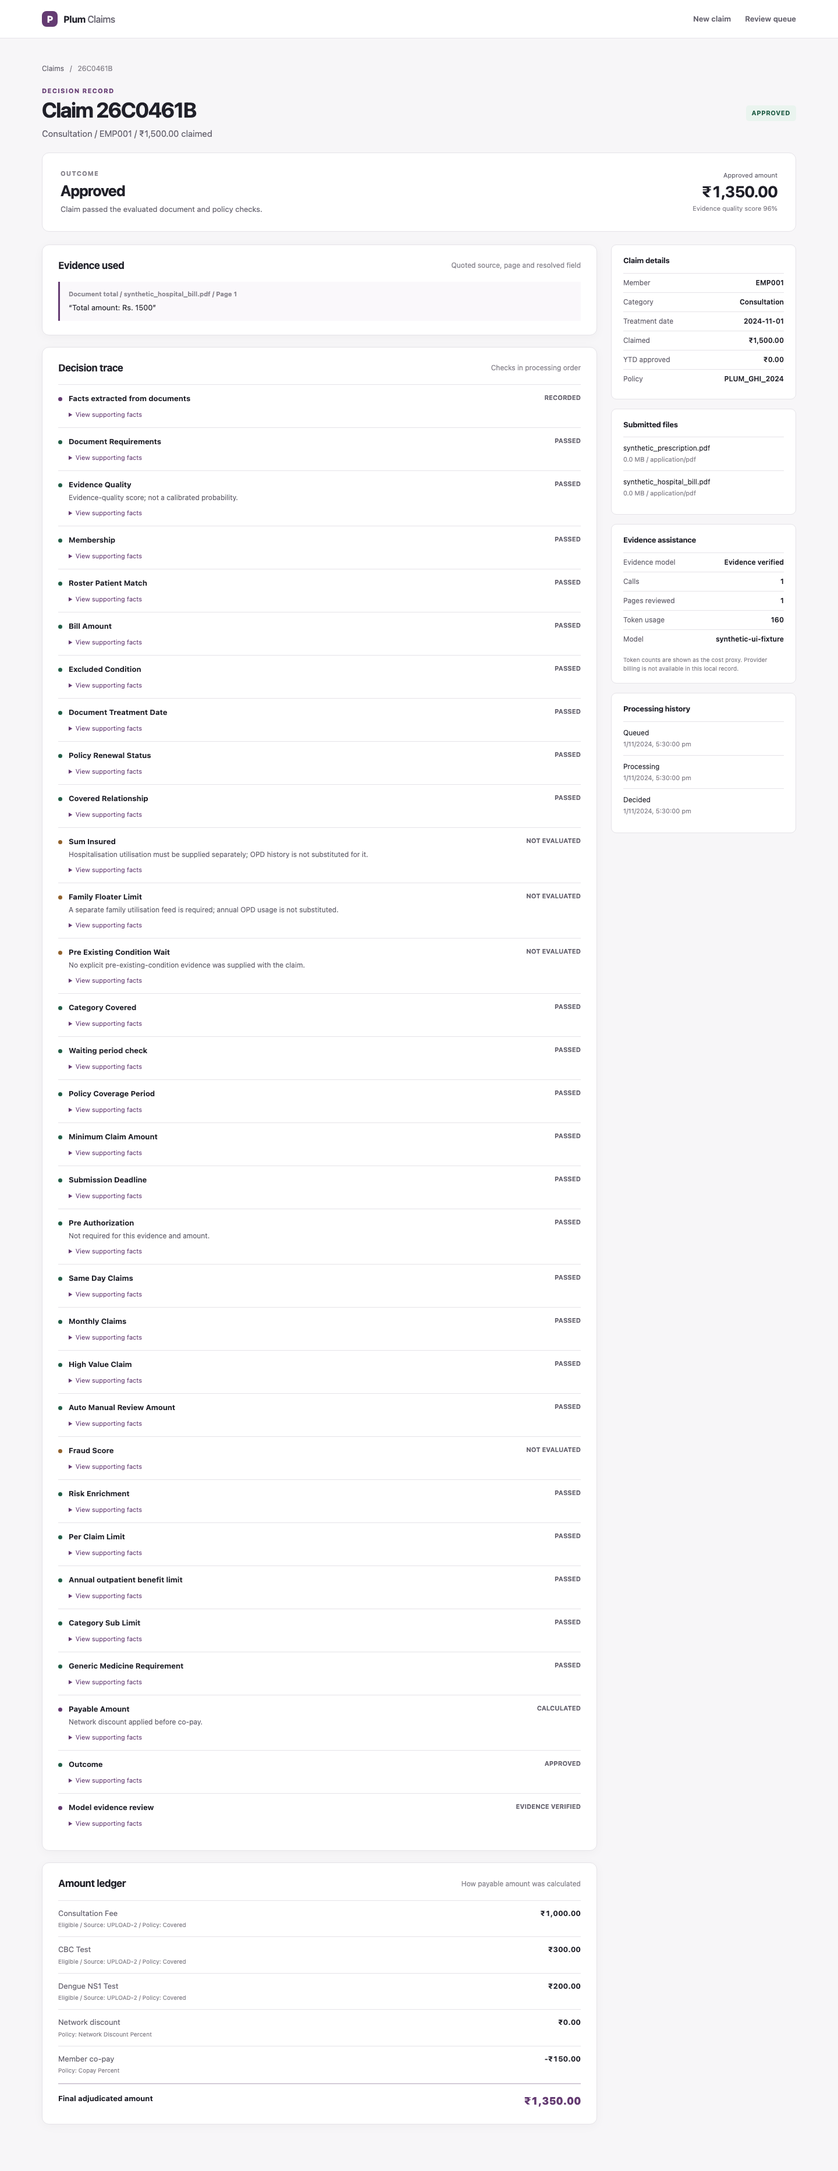
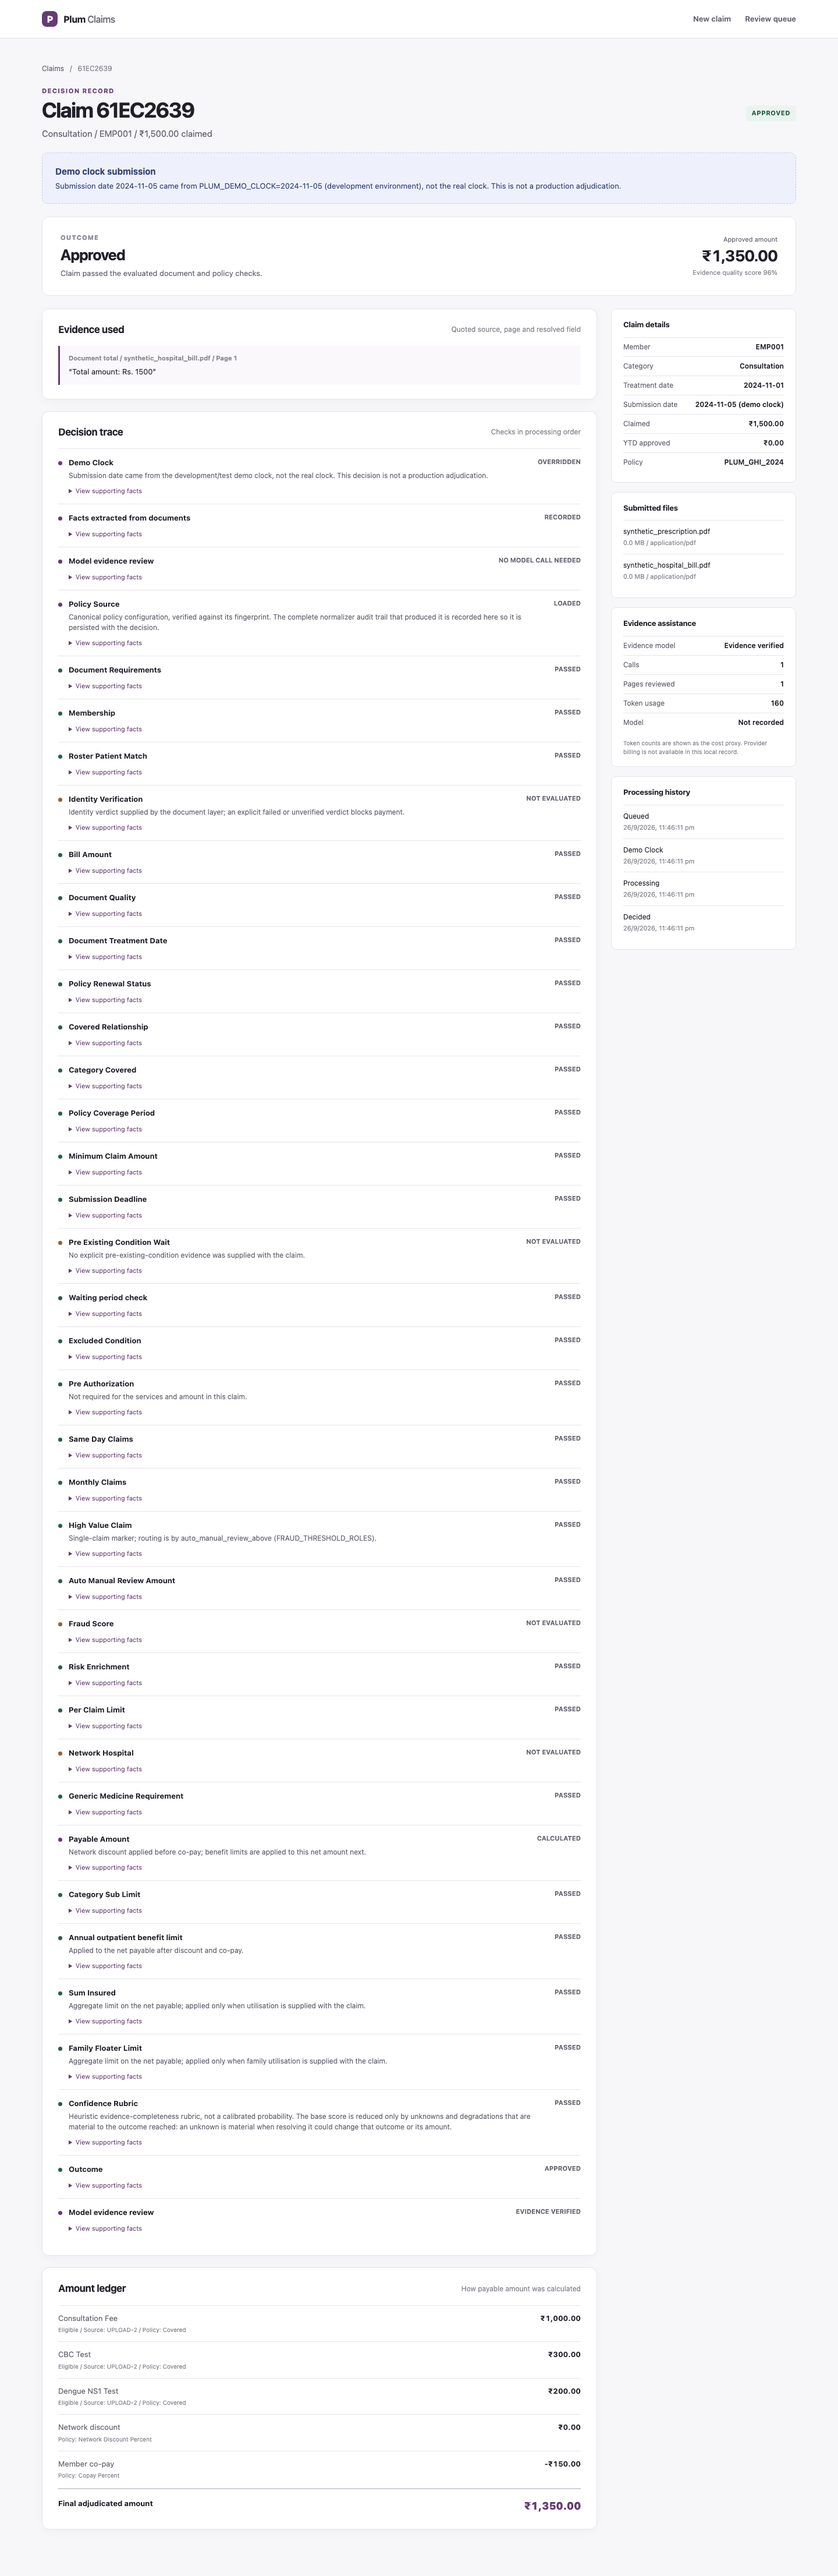
fix(verification): isolate browser QA data

diff --git a/scripts/browser_check.py b/scripts/browser_check.py
@@ -6,6 +6,14 @@ the explicit development clock before running this check:
     PLUM_ENV=development PLUM_DEMO_CLOCK=2024-11-05 .venv/bin/python -m uvicorn claims.web:app
 
 The check asserts that the demo clock is visible in the UI and decision trace.
+Start the server with a new ``PLUM_DATA_DIR`` for this deterministic scenario:
+
+    PLUM_DATA_DIR="$(mktemp -d)" PLUM_ENV=development PLUM_DEMO_CLOCK=2024-11-05 \
+      .venv/bin/python -m uvicorn claims.web:app
+
+The workflow deliberately creates repeat submissions to exercise duplicate and
+review handling, so an existing demo database can make the first approval
+scenario fail the same-day-claims fraud threshold.
 """
 
 from __future__ import annotations

diff --git a/docs/reports/evaluation.md b/docs/reports/evaluation.md
@@ -508,12 +508,8 @@ Explicit behavior checks: **Passed**.
           "Rajesh Kumar",
           "Rajesh Kumar"
         ],
-        "allowed_names": [
-          "arjun kumar",
-          "rajesh kumar",
-          "sunita kumar"
-        ],
-        "unresolved_roster_dependents": []
+        "benefit_member_id": "EMP001",
+        "benefit_member_name": "Rajesh Kumar"
       }
     },
     {
@@ -1061,10 +1057,8 @@ Explicit behavior checks: **Passed**.
           "Vikram Joshi",
           "Vikram Joshi"
         ],
-        "allowed_names": [
-          "vikram joshi"
-        ],
-        "unresolved_roster_dependents": []
+        "benefit_member_id": "EMP005",
+        "benefit_member_name": "Vikram Joshi"
       }
     },
     {
@@ -1600,10 +1594,8 @@ Explicit behavior checks: **Passed**.
         "document_names": [
           "Priya Singh"
         ],
-        "allowed_names": [
-          "priya singh"
-        ],
-        "unresolved_roster_dependents": []
+        "benefit_member_id": "EMP002",
+        "benefit_member_name": "Priya Singh"
       }
     },
     {
@@ -2191,13 +2183,8 @@ Explicit behavior checks: **Passed**.
       "policy_ref": "members",
       "evidence": {
         "document_names": [],
-        "allowed_names": [
-          "suresh patil"
-        ],
-        "unresolved_roster_dependents": [
-          "DEP004",
-          "DEP005"
-        ]
+        "benefit_member_id": "EMP007",
+        "benefit_member_name": "Suresh Patil"
       }
     },
     {
@@ -2507,7 +2494,7 @@ Explicit behavior checks: **Passed**.
     {
       "stage": "policy",
       "rule_id": "category_sub_limit",
-      "status": "DEFERRED_TO_PRE_AUTH",
+      "status": "LIMITED",
       "policy_ref": "opd_categories.diagnostic.sub_limit",
       "evidence": {
         "sub_limit": 10000,
@@ -2517,11 +2504,12 @@ Explicit behavior checks: **Passed**.
         "usage_basis": null,
         "used": null,
         "remaining_before_claim": 10000,
-        "service_net_payable": null,
-        "counted_against_sub_limit_paise": null,
-        "net_payable_after": 15000,
+        "service_net_payable": 15000,
+        "counted_against_sub_limit_paise": 1000000,
+        "net_payable_after": 10000,
         "interpretation": "CATEGORY_SUB_LIMIT_RULE"
-      }
+      },
+      "details": "Prior category usage not supplied; this claim was checked against the full sub_limit on its own."
     },
     {
       "stage": "policy",
@@ -2533,7 +2521,7 @@ Explicit behavior checks: **Passed**.
         "ytd_claims_amount": null,
         "ytd_source": null,
         "remaining": null,
-        "net_payable_before_limit": 15000
+        "net_payable_before_limit": 10000
       },
       "details": "Year-to-date OPD usage was not supplied; the annual limit is applied at settlement against the utilisation ledger."
     },
@@ -2546,7 +2534,7 @@ Explicit behavior checks: **Passed**.
         "sum_insured_paise": 50000000,
         "used_paise": null,
         "remaining_paise": null,
-        "net_payable_before_limit_paise": 1500000
+        "net_payable_before_limit_paise": 1000000
       },
       "details": "Aggregate limit on the net payable; applied only when utilisation is supplied with the claim."
     },
@@ -2560,7 +2548,7 @@ Explicit behavior checks: **Passed**.
         "combined_limit_paise": 15000000,
         "used_paise": null,
         "remaining_paise": null,
-        "net_payable_before_limit_paise": 1500000
+        "net_payable_before_limit_paise": 1000000
       },
       "details": "Aggregate limit on the net payable; applied only when family utilisation is supplied with the claim."
     },
@@ -2591,6 +2579,14 @@ Explicit behavior checks: **Passed**.
             "applies_to": [
               "payable",
               "date_dependent_rejection"
+            ],
+            "applied": false
+          },
+          {
+            "reason": "category_usage_not_evaluated",
+            "points": 0.03,
+            "applies_to": [
+              "payable"
             ],
             "applied": false
           },
@@ -2654,6 +2650,14 @@ Explicit behavior checks: **Passed**.
       "policy_ref": "opd_categories.diagnostic.copay_percent",
       "basis_paise": 1500000,
       "percent": 0
+    },
+    {
+      "kind": "adjustment",
+      "description": "Diagnostic sub-limit",
+      "amount_paise": -500000,
+      "amount": -5000,
+      "policy_ref": "opd_categories.diagnostic.sub_limit",
+      "rule_id": "category_sub_limit"
     }
   ]
 }
@@ -2753,12 +2757,8 @@ Explicit behavior checks: **Passed**.
       "policy_ref": "members",
       "evidence": {
         "document_names": [],
-        "allowed_names": [
-          "amit verma"
-        ],
-        "unresolved_roster_dependents": [
-          "DEP003"
-        ]
+        "benefit_member_id": "EMP003",
+        "benefit_member_name": "Amit Verma"
       }
     },
     {
@@ -3303,10 +3303,8 @@ Explicit behavior checks: **Passed**.
       "policy_ref": "members",
       "evidence": {
         "document_names": [],
-        "allowed_names": [
-          "ravi menon"
-        ],
-        "unresolved_roster_dependents": []
+        "benefit_member_id": "EMP008",
+        "benefit_member_name": "Ravi Menon"
       }
     },
     {
@@ -3860,12 +3858,8 @@ Explicit behavior checks: **Passed**.
           "Deepak Shah",
           "Deepak Shah"
         ],
-        "allowed_names": [
-          "deepak shah"
-        ],
-        "unresolved_roster_dependents": [
-          "DEP006"
-        ]
+        "benefit_member_id": "EMP010",
+        "benefit_member_name": "Deepak Shah"
       }
     },
     {
@@ -4423,10 +4417,8 @@ TC011 confidence with the component working: 0.79.
       "policy_ref": "members",
       "evidence": {
         "document_names": [],
-        "allowed_names": [
-          "kavita nair"
-        ],
-        "unresolved_roster_dependents": []
+        "benefit_member_id": "EMP006",
+        "benefit_member_name": "Kavita Nair"
       }
     },
     {
@@ -5028,10 +5020,8 @@ Explicit behavior checks: **Passed**.
       "policy_ref": "members",
       "evidence": {
         "document_names": [],
-        "allowed_names": [
-          "anita desai"
-        ],
-        "unresolved_roster_dependents": []
+        "benefit_member_id": "EMP009",
+        "benefit_member_name": "Anita Desai"
       }
     },
     {

diff --git a/docs/reports/verification-summary.md b/docs/reports/verification-summary.md
@@ -2,9 +2,9 @@
 
 Result: **PASS**. Generated by `make verify` (`scripts/verify_submission.py`); do not edit by hand.
 
-- Git HEAD: `5e089431577db30c5f90a24948eeabbd9d058413` on `fix/source-of-truth-remediation` (clean worktree)
-- Started 2026-09-26T17:34:40+00:00, finished 2026-09-26T17:34:47+00:00
-- Python 3.14.7 on Darwin arm64
+- Git HEAD: `cbd7f6ebf71c77952ab6f7995a288252b4ab4960` on `fix/audit-remediation` (worktree had uncommitted changes in 2 path(s) when this ran)
+- Started 2026-09-26T18:14:32+00:00, finished 2026-09-26T18:14:42+00:00
+- Python 3.14.2 on Darwin arm64
 
 ## Supplied artifacts
 
@@ -21,17 +21,17 @@ Checked against the sha256 of the evaluator's initial commit `c8f4791`. These fi
 
 | Step | Command | Exit | Seconds |
 | --- | --- | --- | --- |
-| ruff | `python -m ruff check .` | 0 | 0.03 |
-| mypy | `python -m mypy claims scripts tools` | 0 | 0.23 |
-| compileall | `python -m compileall -q claims scripts tools` | 0 | 0.04 |
-| pytest | `python -m pytest -q -p no:cacheprovider` | 0 | 5.1 |
-| supplied-case evaluation | `python -m scripts.evaluate` | 0 | 0.18 |
-| offline document suites | `python -m scripts.evaluate_documents` | 0 | 0.43 |
-| live OCR status (keys stripped) | `python -m scripts.evaluate_documents --providers live` | 2 | 0.19 |
+| ruff | `python -m ruff check .` | 0 | 0.22 |
+| mypy | `python -m mypy claims scripts tools` | 0 | 5.88 |
+| compileall | `python -m compileall -q claims scripts tools` | 0 | 0.06 |
+| pytest | `python -m pytest -q -p no:cacheprovider` | 0 | 4.03 |
+| supplied-case evaluation | `python -m scripts.evaluate` | 0 | 0.12 |
+| offline document suites | `python -m scripts.evaluate_documents` | 0 | 0.31 |
+| live OCR status (keys stripped) | `python -m scripts.evaluate_documents --providers live` | 2 | 0.16 |
 
 ## Tests
 
-pytest: 269 passed, 0 failed, 0 errors, 0 skipped, 103 subtests passed, 7 warnings.
+pytest: 277 passed, 0 failed, 0 errors, 0 skipped, 105 subtests passed, 7 warnings.
 
 ## Supplied cases
 

diff --git a/docs/guides/local-runbook.md b/docs/guides/local-runbook.md
@@ -28,10 +28,10 @@ The demo clock is never silent. The server logs `DEMO CLOCK ACTIVE` at startup, 
 ## 1. Start the app
 
 ```bash
-PLUM_ENV=development PLUM_DEMO_CLOCK=2024-11-05 .venv/bin/python -m uvicorn claims.web:app --reload
+PLUM_DATA_DIR="$(mktemp -d)" PLUM_ENV=development PLUM_DEMO_CLOCK=2024-11-05 .venv/bin/python -m uvicorn claims.web:app --reload
 ```
 
-Leave this terminal open. For anything other than a replay of the 2024 sample policy, start it without the two variables so the real clock is used: `.venv/bin/python -m uvicorn claims.web:app --reload`.
+Leave this terminal open. The temporary data directory keeps the approval, duplicate, and review examples reproducible; the browser check deliberately creates repeat claims. For anything other than a replay of the 2024 sample policy, start it without the demo variables so the real clock is used: `.venv/bin/python -m uvicorn claims.web:app --reload`.
 
 Open a second terminal in the repository root for the claim submission. The app uses local SQLite and private upload files under `.data/` (override with `PLUM_DATA_DIR`).
 

diff --git a/README.md b/README.md
@@ -64,12 +64,12 @@ It runs these steps:
 CI runs the same command without provider keys.
 
 <!-- verification:start -->
-_Generated by `make verify` at 2026-09-26T17:34:47+00:00 on `5e08943`. Source: [`docs/reports/verification-summary.md`](docs/reports/verification-summary.md)._
+_Generated by `make verify` at 2026-09-26T18:14:42+00:00 on `cbd7f6e + uncommitted changes`. Source: [`docs/reports/verification-summary.md`](docs/reports/verification-summary.md)._
 
 | Check | Result |
 | --- | --- |
 | Supplied artifacts (sha256) | 4/4 unmodified |
-| pytest | 269 passed, 0 failed, 103 subtests passed |
+| pytest | 277 passed, 0 failed, 105 subtests passed |
 | ruff / mypy / compileall | pass / pass / pass |
 | Supplied cases (`scripts.evaluate`, unmodified `test_cases.json`) | **12/12** |
 | Offline document suites (routing / fail-closed, not OCR) | **28/28**: `intake_routing` 6/6, `image_fail_closed` 14/14, `provider_failure_injection` 8/8 |
